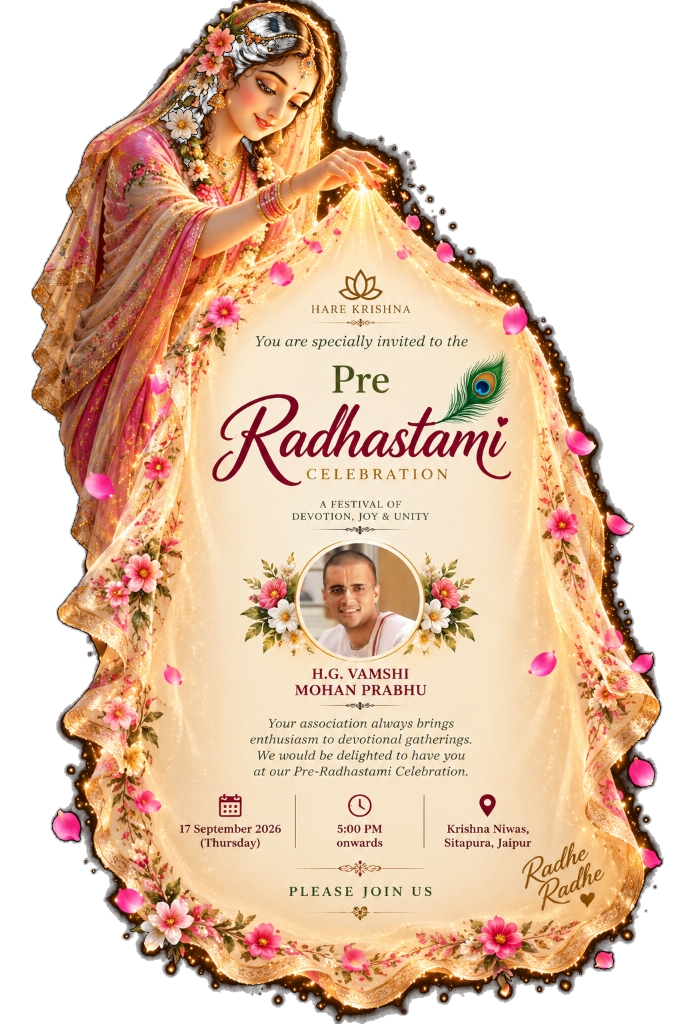
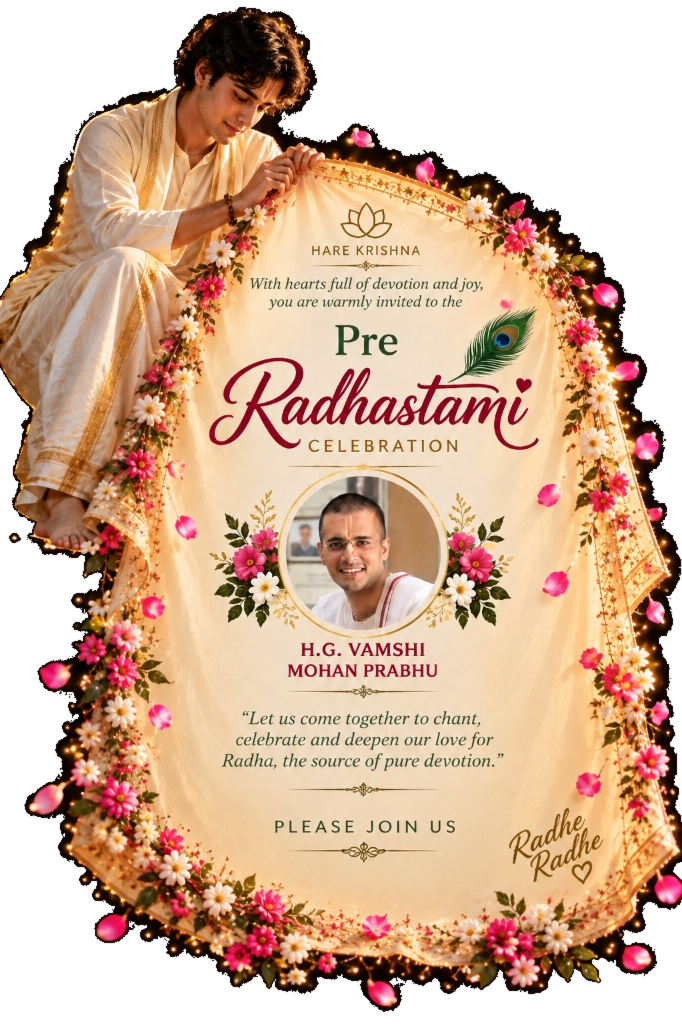
Update view

diff --git a/index.html b/index.html
@@ -7,7 +7,7 @@
   <link rel="preconnect" href="https://fonts.googleapis.com">
   <link rel="preconnect" href="https://fonts.gstatic.com" crossorigin>
   <link href="https://fonts.googleapis.com/css2?family=Cinzel+Decorative:wght@700&family=Cormorant+Garamond:ital,wght@0,600;0,700;1,500&family=Rozha+One&display=swap" rel="stylesheet">
-  <link rel="stylesheet" href="style.css">
+  <link rel="stylesheet" href="style.css?v=2">
 </head>
 <body>
 
@@ -91,6 +91,6 @@
 
   </main>
 
-  <script src="script.js"></script>
+  <script src="script.js?v=2"></script>
 </body>
 </html>

diff --git a/script.js b/script.js
@@ -275,7 +275,7 @@ function initPetals() {
       this.vx = (Math.random() - 0.5) * 0.9;
       this.angle = Math.random() * 360;
       this.spin = (Math.random() - 0.5) * 3;
-      const colors = ['#ffaec9', '#ff9bb9', '#ffd1dc', '#fce4ec', '#fff0f5'];
+      const colors = ['#38bdf8', '#60a5fa', '#7dd3fc', '#0ea5e9', '#93c5fd', '#bae6fd'];
       this.color = colors[Math.floor(Math.random() * colors.length)];
       this.alpha = Math.random() * 0.5 + 0.35;
     }
